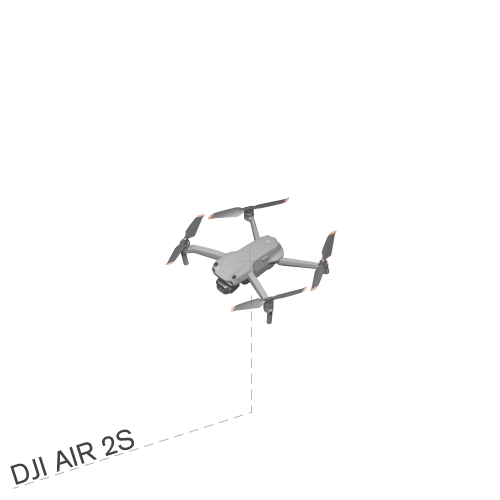
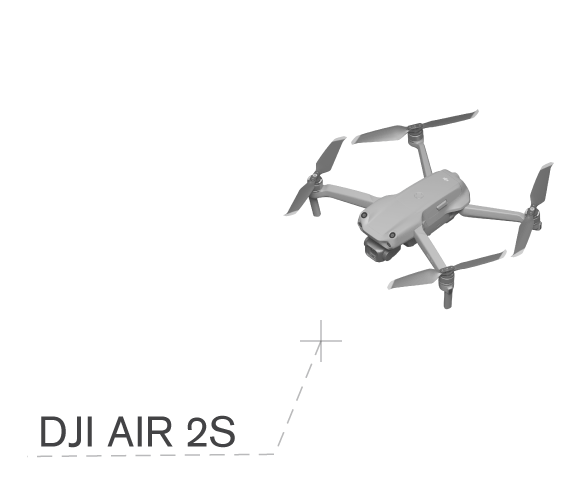
update tech flyby images
updated flyby images 500px tall, black and white for adding sepia and hue-rotate filters

Changed region(s): [[0.33, 0.21, 0.99, 0.66], [0.0, 0.81, 0.42, 0.99], [0.54, 0.66, 0.6, 0.72]]

diff --git a/index.html b/index.html
@@ -722,9 +722,9 @@ document.getElementById('floater-container').appendChild(captionEl);
   
 const flybyImages = {
   0: [ 'images/flyby/djiAir2s.png' ],
-  1: [ 'images/flyby/djiAir2s.png' ],
-  2: [ 'images/flyby/djiAir2s.png'],
-  3: [ 'images/flyby/faroFocus.png'],
+  1: [ 'images/flyby/sphericalTargets.png' ],
+  2: [ 'images/flyby/hardHats.png', 'images/flyby/quest3.png'],
+  3: [ 'images/flyby/faroFocus.png', 'images/flyby/photogrammetryRig.png'],
   4: [ 'images/flyby/groundTargets.png' ],
 
 };
